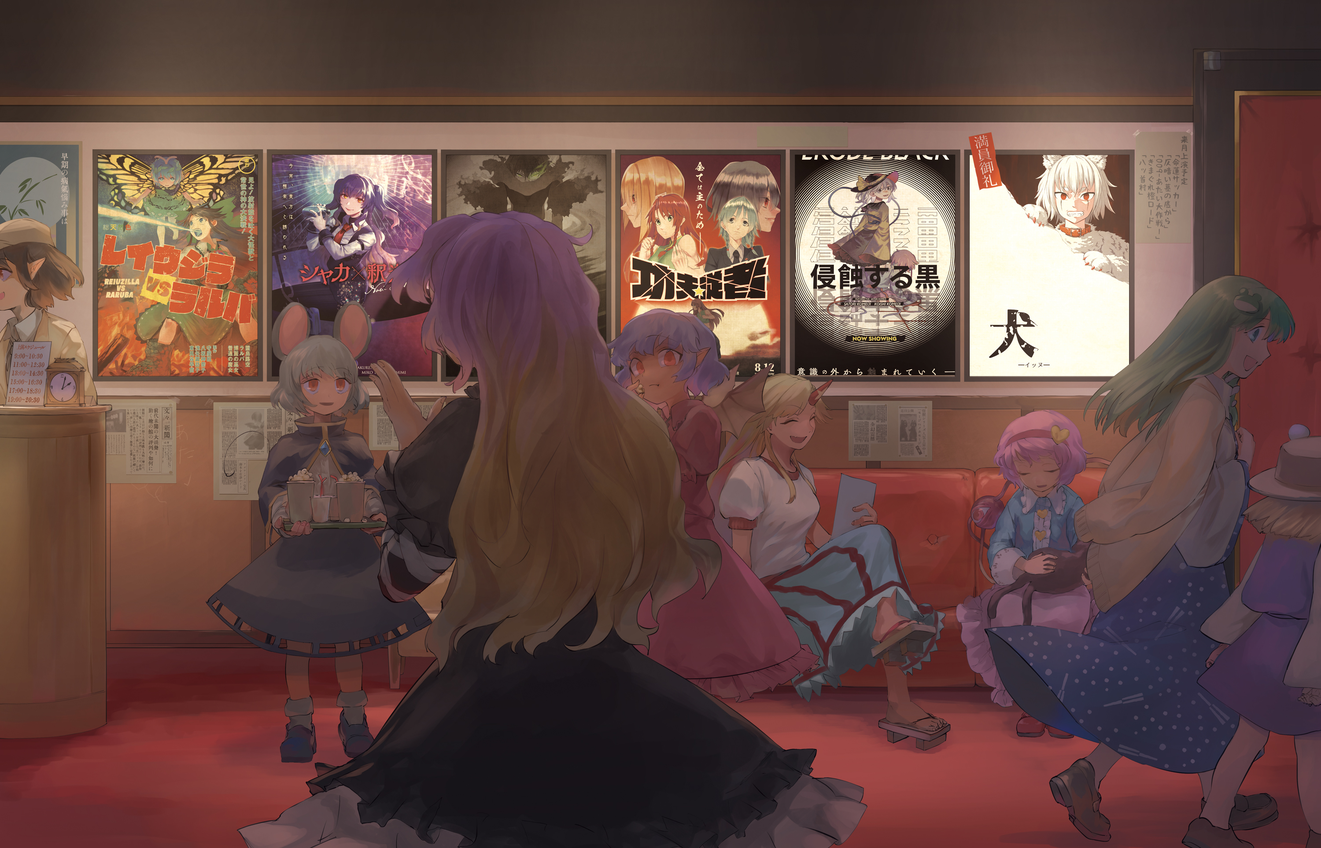
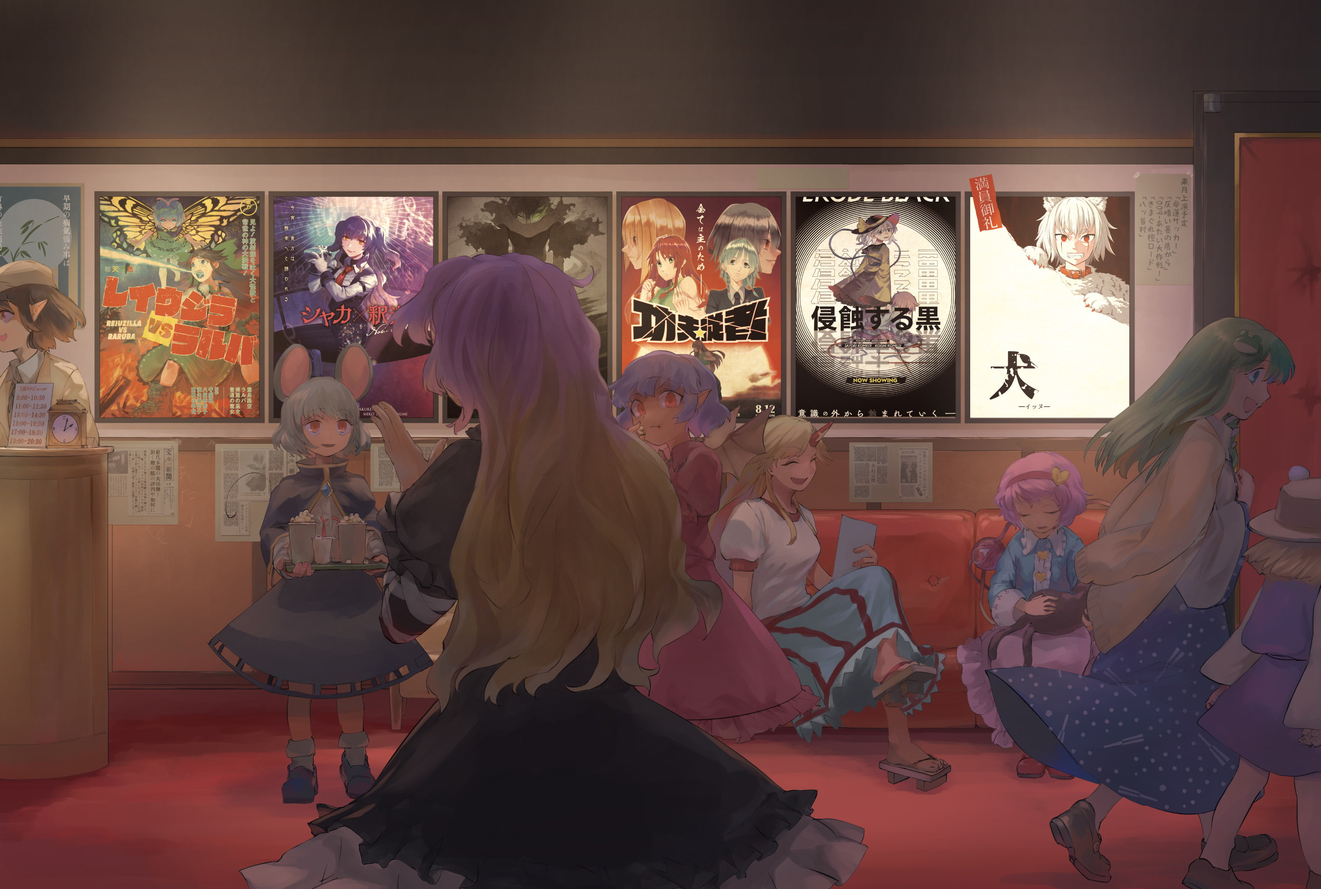
画像差し替え・サイズ調整

diff --git a/src/css/main/staff.scss b/src/css/main/staff.scss
@@ -82,8 +82,8 @@
           position: absolute;
           top: -12px;
           left: 8px;
-          width: 18px;
-          padding: 5px 0;
+          width: 20px;
+          padding: 5px 2px;
           background-color: #aa0f0a;
           animation: show-left-to-right 1s ease-out;
           z-index: 3;
@@ -91,7 +91,7 @@
           @include media-pc {
             top: -18px;
             left: 20px;
-            width: 26px;
+            width: 30px;
           }
         }
 
@@ -100,10 +100,11 @@
           width: 100%;
           height: 90px;
           background-size: cover;
-          background-position: center;
+          background-position: 70% center;
 
           @include media-pc {
             height: 160px;
+            background-position: center;
           }
 
           .name__img {
@@ -112,17 +113,20 @@
             bottom: 5px;
             width: auto;
             height: 32px;
+            filter: drop-shadow(0 1px 3px rgba(0, 0, 0, 0.8));
 
             @include media-pc {
               left: 20px;
               bottom: 10px;
               height: 75px;
+              filter: none;
             }
           }
         }
 
         .content__name-fungi {
           background-image: url(/gensou-cinema/images/sample_fungi.jpg);
+          background-position: 48% center;
         }
 
         .content__name-13 {

diff --git a/src/html/index.html b/src/html/index.html
@@ -294,7 +294,7 @@
       <!--overview-->
       <section class="overview">
         <div class="overview__wrapper">
-          <h3 class="overview__date">2019.8.12</h3>
+          <img class="overview__date lazyload" data-src="/gensou-cinema/images/text_date.svg" alt="2019.8.12" />
           <div class="overview__img">
             <img class="img__vertical-text-left lazyload" data-src="/gensou-cinema/images/text_circle-space.svg"
               alt="コミックマーケット96 月曜日 南フ40a" />

diff --git a/src/css/intro/index.scss b/src/css/intro/index.scss
@@ -62,15 +62,15 @@
     position: absolute;
     bottom: 2.5%;
     left: 15px;
-    width: 18px;
-    padding: 5px 0;
+    width: 20px;
+    padding: 5px 2px;
     background-color: $primary-color;
     z-index: 3;
     animation: show-left-to-right 1s ease-out;
 
     @include media-pc {
       left: 40px;
-      width: 25px;
+      width: 28px;
     }
   }
 

diff --git a/src/css/main/overview.scss b/src/css/main/overview.scss
@@ -20,12 +20,11 @@
   }
 
   .overview__date {
-    font-size: 2rem;
-    letter-spacing: 1.5rem;
-    text-indent: 1.5rem;
+    width: 130px;
+    height: auto;
 
     @include media-pc {
-      font-size: 2.5rem;
+      width: 180px;
     }
   }
 
